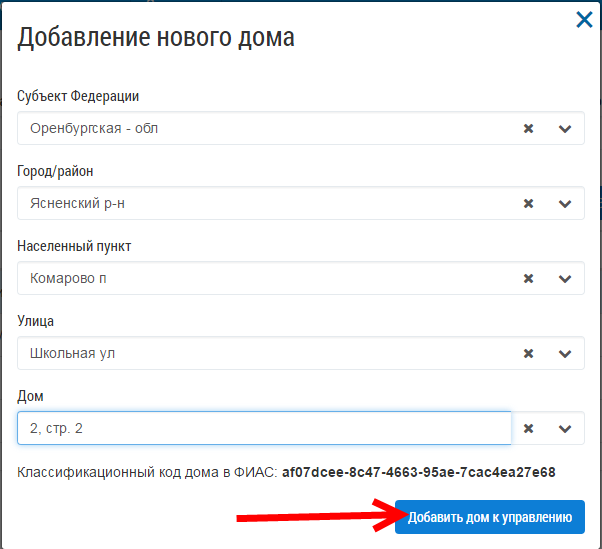
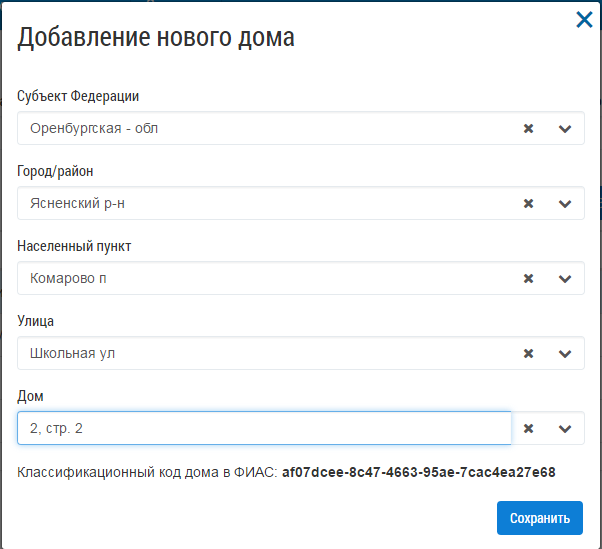
Обновление информационной справки. Актуализирована информация по МКД и Журналу мониторинга квитанций. Добавлено описание для Журнала подписок и обратной связи.

Changed region(s): [[0.3887, 0.898, 0.9867, 0.9909]]

diff --git a/docs/source/conf.py b/docs/source/conf.py
@@ -60,9 +60,9 @@ author = u'Infinnity Solutions'
 # built documents.
 #
 # The short X.Y version.
-version = u'1.0.7'
+version = u'1.0.9'
 # The full version, including alpha/beta/rc tags.
-release = u'1.0.7'
+release = u'1.0.9'
 
 # The language for content autogenerated by Sphinx. Refer to documentation
 # for a list of supported languages.

diff --git a/docs/source/04-management-agreements/4.1.rst b/docs/source/04-management-agreements/4.1.rst
@@ -34,7 +34,7 @@
 
 3. Заполнить поля открывшейся формы.
 
-4. Нажать кнопку «Добавить дом к управлению».
+4. Нажать кнопку «Сохранить».
 
 	.. image:: ../_images/04-management-agreements/50.png
 
@@ -48,7 +48,7 @@
 
 	.. image:: ../_images/04-management-agreements/51.png	
 
-6. Заполнить обязательные поля в открывшейся форме:
+6. Заполнить обязательные поля во вкладке «Общие информация»:
 
 	.. image:: ../_images/04-management-agreements/52.png
 
@@ -61,22 +61,79 @@
 	b. Заполнить поля. 
 	
 	.. image:: ../_images/04-management-agreements/56.png
-
-7. Нажать кнопку «Сохранить».
 	
-После этого дом добавится в журнал «МКД».
+7. Заполнить обязательные поля во вкладке «Услуги».
 
-**Для редактирования «МКД» необходимо:**
+	.. image:: ../_images/04-management-agreements/62.png
 
-1. Перейти в раздел «МКД».
+8. Заполнить поля во вкладке «Данные по дому». 
 
-2. Нажать кнопку «Редактирование» напротив требуемого дома (или двойным нажатием левой кнопки мыши по строке).
+	.. image:: ../_images/04-management-agreements/61.png
 
-	.. image:: ../_images/04-management-agreements/54.png
+	**Ниже представлен список полей из вкладки «Данные по дому», которые могут быть опубликованы на сайте «ГИС ЖКХ»:**
 
-3. Внести необходимые изменения.
-
-4. Нажать кнопку «Сохранить».
+	**Общие данные по дому:**
+	
+	* Количество жилых помещений (квартир).
+	
+	* Общий износ здания.
+	
+	* Количество подъездов в многоквартирном доме.
+	
+	* Количество лифтов.
+	
+	* Количество нежилых помещений.
+	
+	* Серия, тип проекта здания.
+	
+	* Наличие приспособлений в многоквартирном доме в подъезде для нужд маломобильных групп населения.
+	
+	* Дата, на которую установлен износ здания.
+	
+	* Общежитие.
+	
+	* Тип общежития.
+	
+	* Класс энергетической эффективности здания.
+	
+	* Дата проведения энергетического обследования.
+	
+	* Наличие факта признания многоквартирного дома аварийным. 
+	
+	* Основание признания многоквартирного дома аварийным.
+	
+	* Дата документа, содержащего решение о признании многоквартирного дома аварийным.
+	
+	* Номер документа, содержащего решение о признании многоквартирного дома аварийным.
+	
+	* Год постройки.
+	
+	* Стадия жизненного цикла.
+	
+	* Год проведения реконструкции (при наличии информации в технической документации).
+	
+	**Площадь здания (многоквартирного дома):**
+	
+	* Общая площадь нежилых помещений, за исключением помещений общего пользования.
+	
+	* Общая площадь помещений общего пользования в многоквартирном доме.
+	
+	* Общая площадь жилых помещений.
+	
+	**Другие конструктивные элементы дома:**
+	
+	* Группа капитальности.
+	
+	* Разновидность территорий.
+	
+	**Земельный участок:**
+	
+	* Площадь земельного участка.
+	
+	* Кадастровый номер земельного участка.
+	
+	
+9. Нажать кнопку «Сохранить».
 
 По договору управления
 ~~~~~~~~~~~~~~~~~~~~~~~~

diff --git a/docs/source/02-work-section-mkd/2.3.rst b/docs/source/02-work-section-mkd/2.3.rst
@@ -79,3 +79,26 @@
 
 **После этого на компьютер скачается текстовый документ с информацией о результате обработки загружаемого файла.**
 
+**При возникновении трудностей можно воспользоваться обратной связью. Для этого необходимо:**
+
+1. Нажать на профиль организации.
+
+	.. image:: ../_images/02-work-section-mkd/116.png
+
+2. Выбрать в выпадающем списке пункт «Обратная связь».
+
+	.. image:: ../_images/02-work-section-mkd/115.png
+	
+3. В открывшемся окне заполнить необходимые поля («Тема письма», «Текст сообщения»). Выбрать нужную категорию:
+	
+	* Заявка на улучшение.
+	
+	* Сообщение об ошибке.
+	
+	* Вопрос.
+	
+	* Комментарий.
+
+	.. image:: ../_images/02-work-section-mkd/117.png
+
+4. Нажать кнопку «Обратная связь» отправить.

diff --git a/docs/source/02-work-section-mkd/2.1.rst b/docs/source/02-work-section-mkd/2.1.rst
@@ -47,7 +47,7 @@
 
 3. Выбрать в открывшемся окне:
 
-	- профиль организации из выпадающего списка (ИНН \ Отчётный период);
+	- профиль организации из выпадающего списка (ИНН / Отчётный период);
 	
 	- компоненты (Профиль организации, МКД).
 	
@@ -60,6 +60,10 @@
 После этого появится диалоговое окно с сообщением о загрузке данных из портала «Реформа ЖКХ».
 
 	.. image:: ../_images/02-work-section-mkd/49.png
+	
+**Кроме того, в Журнале событий есть возможность просмотреть список данных (МКД и УО), загруженных из портала «Реформа ЖКХ».**
+
+	.. image:: ../_images/02-work-section-mkd/114.png
 
 **Обращаем внимание: после загрузки данных по МКД из портала «Реформа ЖКХ» необходимо дозаполнить информацию:**
 

diff --git a/docs/source/03-employment-section-organization/3.4.rst b/docs/source/03-employment-section-organization/3.4.rst
@@ -21,7 +21,7 @@
 
  .. image:: ../_images/03-employment-section-organization/51.png
 
-2. Просмотреть статус квитанций (лицевые счета создаются при статусе «Загружено в Управдом»).
+2. Просмотреть прогресс загрузки квитанций (лицевые счета создаются при статусе «Загружено в Управдом»).
 
  .. image:: ../_images/03-employment-section-organization/52.png
 

diff --git a/docs/source/02-work-section-mkd/2.2.rst b/docs/source/02-work-section-mkd/2.2.rst
@@ -68,6 +68,7 @@
 	.. image:: ../_images/02-work-section-mkd/69.png
 
 13. Проверить статус обработки файла.
+
 	.. image:: ../_images/02-work-section-mkd/70.png
 	
 14. Нажать кнопку «Просмотреть отчёт».
